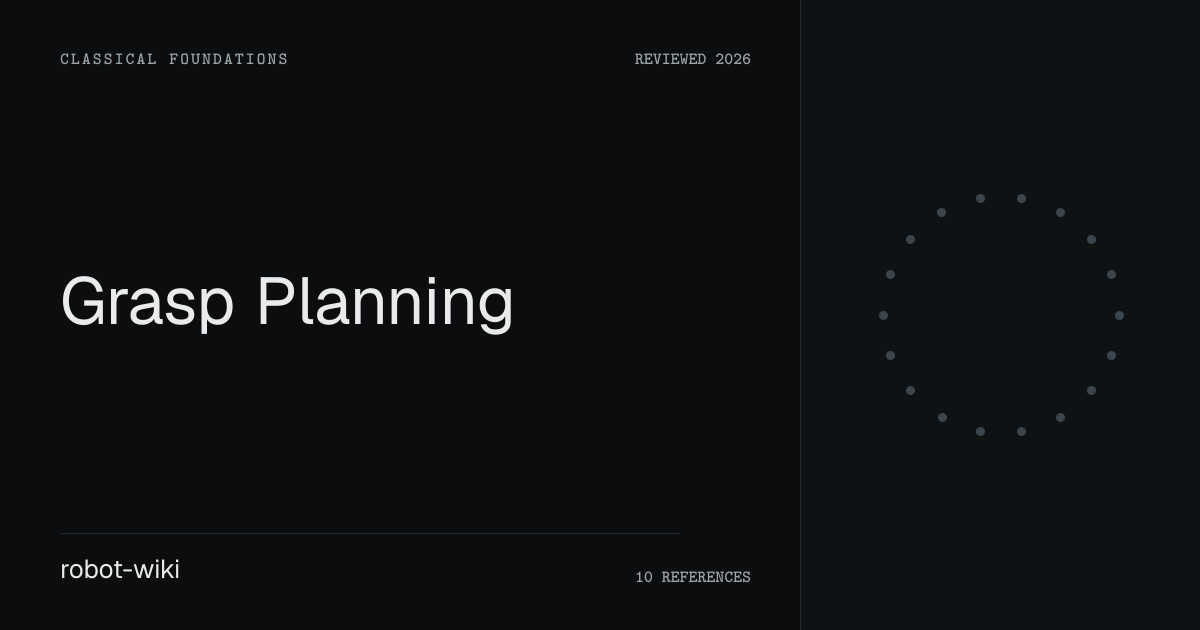
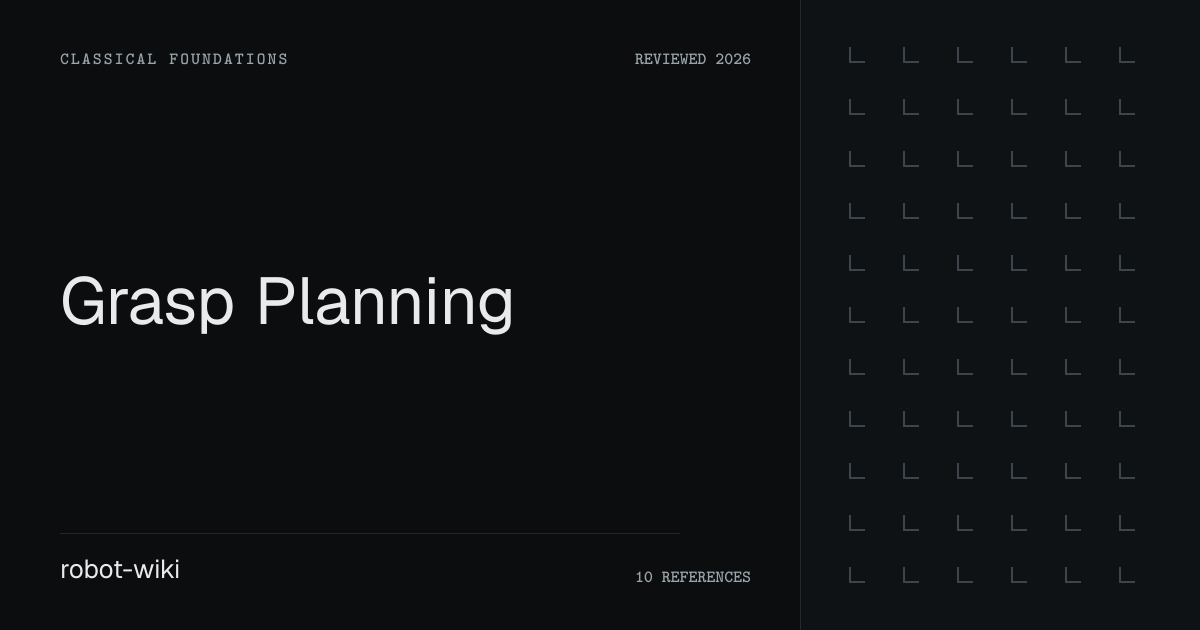
fix(og): replace the ring ornament, which read as a loading spinner
A circle of evenly spaced identical dots is the silhouette of a
dot-matrix loader. The drawing had stopped claiming a false measurement
and started implying a pending operation, which on a fully static export
is a different wrong meaning rather than an absence of one.

The classical domain and the site card now wear a field of corner ticks
on the same even lattice the other five ornaments use. Strokes are 2px
rather than the house hairline because a feed renders the card at about
half size, where a 1px stroke aliases into a visibly uneven field.

diff --git a/lib/og-card-artwork.ts b/lib/og-card-artwork.ts
@@ -97,7 +97,7 @@ function div(style: Record<string, unknown>, children?: string | CardNode[]): Ca
 /* card's WIKI eyebrow.                                                 */
 /* ------------------------------------------------------------------ */
 
-type Ornament = 'lattice' | 'mesh' | 'stitch' | 'weave' | 'ring' | 'pitch';
+type Ornament = 'lattice' | 'mesh' | 'stitch' | 'weave' | 'notch' | 'pitch';
 
 /**
  * The ornament each domain wears. A literal table read by the article's
@@ -109,7 +109,7 @@ const DOMAIN_ORNAMENT: Record<string, Ornament> = {
   'rl-sim2real': 'weave',
   'world-models': 'mesh',
   'data-hardware': 'stitch',
-  classical: 'ring',
+  classical: 'notch',
   frontier: 'pitch',
   adjacent: 'mesh',
 };
@@ -121,9 +121,8 @@ export function ornamentFor(domain: string): Ornament {
   return DOMAIN_ORNAMENT[domain] ?? FALLBACK_ORNAMENT;
 }
 
-/** The bordered right panel, minus its padding. */
+/** The bordered right panel width, minus its padding. */
 const PANEL_W = 304;
-const PANEL_H = 534;
 
 /** The single fill every ornament mark uses. */
 const MARK = '#3c454c';
@@ -222,31 +221,29 @@ function weaveOrnament(): CardNode {
   );
 }
 
-/** Identical dots placed at even angles on one circle. */
-function ringOrnament(): CardNode {
-  const count = 18;
-  const size = 9;
-  const radius = 118;
-  const cx = PANEL_W / 2;
-  const cy = PANEL_H / 2;
-  const dots: CardNode[] = [];
-  for (let i = 0; i < count; i++) {
-    const angle = (i / count) * Math.PI * 2;
-    dots.push(
+/**
+ * Even field of identical corner ticks. Deliberately not a circle of
+ * dots: that silhouette is a dot-matrix loading spinner, which on a
+ * static export implies a pending operation that does not exist.
+ */
+function notchOrnament(): CardNode {
+  // 2px strokes, not the 1px hairline the rest of the design system
+  // uses: a feed renders this card at roughly half size, and a 1px
+  // stroke aliases into a visibly uneven field at that scale.
+  return markGrid(
+    6,
+    11,
+    38,
+    36,
+    () =>
       div({
-        position: 'absolute',
-        left: `${Math.round(cx + radius * Math.cos(angle) - size / 2)}px`,
-        top: `${Math.round(cy + radius * Math.sin(angle) - size / 2)}px`,
-        width: `${size}px`,
-        height: `${size}px`,
-        borderRadius: '9999px',
-        backgroundColor: MARK,
+        width: '16px',
+        height: '16px',
+        borderLeft: `2px solid ${MARK}`,
+        borderBottom: `2px solid ${MARK}`,
       }),
-    );
-  }
-  return div(
-    { position: 'relative', display: 'flex', width: `${PANEL_W}px`, height: `${PANEL_H}px` },
-    dots,
+    16,
+    16,
   );
 }
 
@@ -279,8 +276,8 @@ function ornamentElement(ornament: Ornament): CardNode {
       return stitchOrnament();
     case 'weave':
       return weaveOrnament();
-    case 'ring':
-      return ringOrnament();
+    case 'notch':
+      return notchOrnament();
     case 'pitch':
       return pitchOrnament();
   }
@@ -399,7 +396,7 @@ export function articleCardElement(input: CardArtworkInput): CardNode {
 
 /**
  * The site-level card shared by the non-article destinations: the
- * wordmark as the dominant element, the site description, and the ring
+ * wordmark as the dominant element, the site description, and the notch
  * ornament in the right panel. Its wordmark, eyebrow and description
  * appear on no article card, so the asset is byte-distinct from all of
  * them (VAL-DIST-003) through its text rather than its ornament.
@@ -466,7 +463,7 @@ export function siteCardElement(): CardNode {
           justifyContent: 'center',
           padding: '48px 48px',
         },
-        [ringOrnament()],
+        [notchOrnament()],
       ),
     ],
   );
